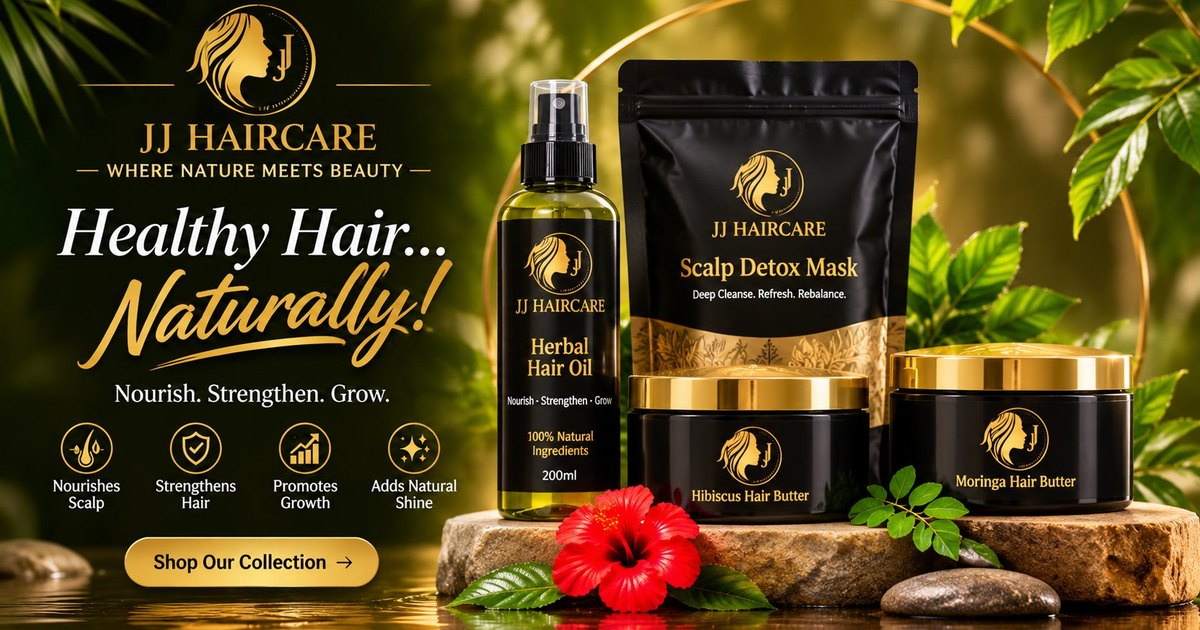
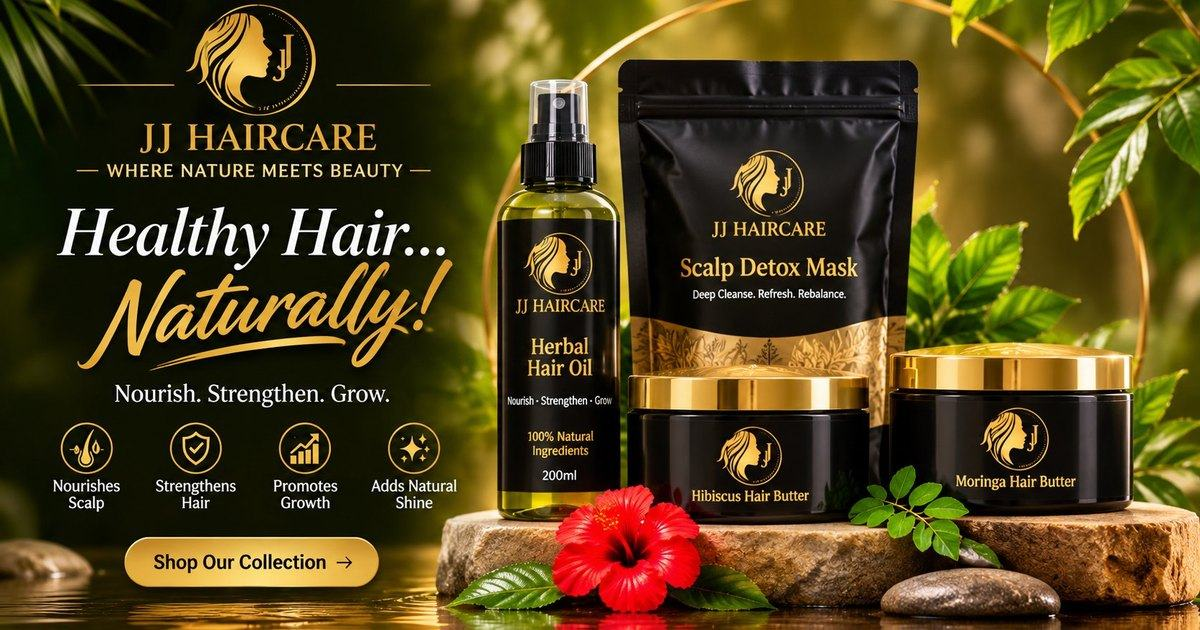
Compress images, optimise product gallery images, clean Our Story crop
Claude-Session: https://claude.ai/code/session_01VHnCC67Mk1dCRZXh2XSpnN

diff --git a/src/components/ProductGallery.tsx b/src/components/ProductGallery.tsx
@@ -1,5 +1,6 @@
 "use client";
 
+import Image from "next/image";
 import { useRef, useState } from "react";
 import { ChevronLeft, ChevronRight } from "lucide-react";
 import ZoomImage from "./ZoomImage";
@@ -33,7 +34,7 @@ export default function ProductGallery({
   };
 
   if (!many) {
-    return <ZoomImage src={images[0]} alt={alt} className={`${aspect} rounded-sm bg-jj-black/5`} />;
+    return <ZoomImage src={images[0]} alt={alt} priority className={`${aspect} rounded-sm bg-jj-black/5`} />;
   }
 
   return (
@@ -46,7 +47,7 @@ export default function ProductGallery({
         >
           {images.map((src, i) => (
             <div key={src} className="min-w-full snap-center">
-              <ZoomImage src={src} alt={`${alt} — photo ${i + 1}`} className={`${aspect} bg-jj-black/5`} />
+              <ZoomImage src={src} alt={`${alt} — photo ${i + 1}`} priority={i === 0} className={`${aspect} bg-jj-black/5`} />
             </div>
           ))}
         </div>
@@ -89,8 +90,7 @@ export default function ProductGallery({
               i === index ? "border-jj-gold" : "border-transparent hover:border-jj-black/20"
             }`}
           >
-            {/* eslint-disable-next-line @next/next/no-img-element */}
-            <img src={src} alt="" className="w-full h-full object-cover" />
+            <Image src={src} alt="" fill sizes="120px" className="object-cover" />
           </button>
         ))}
       </div>

diff --git a/src/components/ZoomImage.tsx b/src/components/ZoomImage.tsx
@@ -1,5 +1,6 @@
 "use client";
 
+import Image from "next/image";
 import { useRef, useState } from "react";
 
 /**
@@ -11,11 +12,15 @@ export default function ZoomImage({
   alt,
   className = "",
   zoom = 2,
+  sizes = "(min-width: 1024px) 50vw, 100vw",
+  priority = false,
 }: {
   src: string;
   alt: string;
   className?: string;
   zoom?: number;
+  sizes?: string;
+  priority?: boolean;
 }) {
   const ref = useRef<HTMLDivElement>(null);
   const [origin, setOrigin] = useState("50% 50%");
@@ -38,12 +43,14 @@ export default function ZoomImage({
       onMouseMove={onMove}
       className={`relative overflow-hidden lg:cursor-zoom-in ${className}`}
     >
-      {/* eslint-disable-next-line @next/next/no-img-element */}
-      <img
+      <Image
         src={src}
         alt={alt}
+        fill
+        sizes={sizes}
+        priority={priority}
         draggable={false}
-        className="w-full h-full object-cover transition-transform duration-300 ease-out"
+        className="object-cover transition-transform duration-300 ease-out"
         style={{
           transformOrigin: origin,
           transform: active ? `scale(${zoom})` : "scale(1)",

diff --git a/src/components/AboutSnippet.tsx b/src/components/AboutSnippet.tsx
@@ -18,13 +18,13 @@ export default function AboutSnippet() {
             Read our story →
           </Link>
         </div>
-        <div className="relative aspect-[1672/941] md:aspect-auto md:min-h-[460px]">
+        <div className="relative aspect-[1024/941] md:aspect-auto md:min-h-[480px]">
           <Image
-            src="/images/about-banner-v3.jpg"
+            src="/images/about-products-v3.jpg"
             alt="The JJ Haircare collection: scalp detox mask, hair mist, herbal hair oil, moringa and hibiscus hair butter"
             fill
             sizes="(min-width: 768px) 50vw, 100vw"
-            className="object-cover object-right"
+            className="object-cover object-center"
           />
         </div>
       </div>
